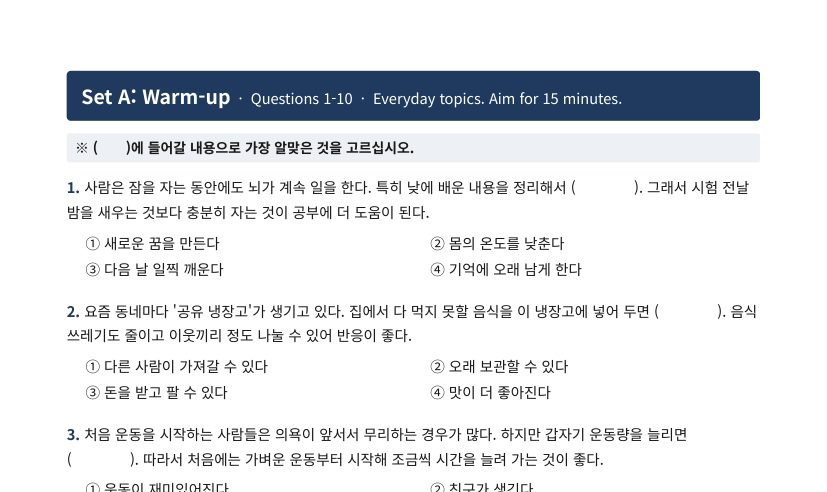
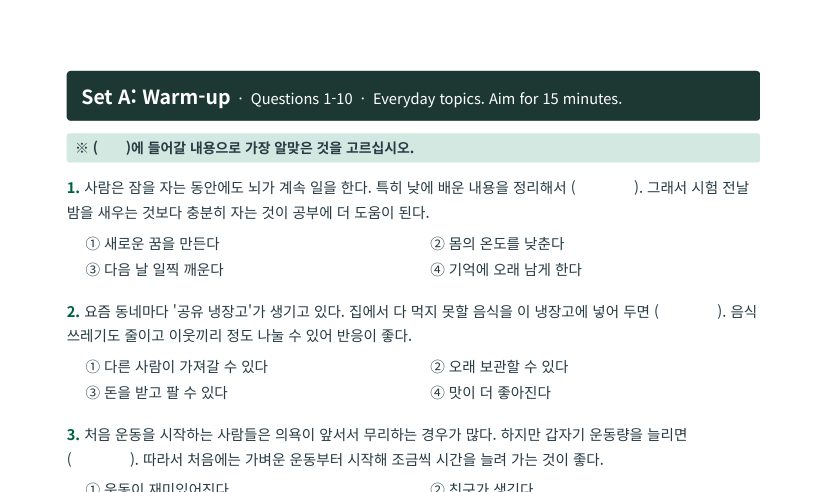
Design: green x warm cream theme (colors, serif titles, pill buttons, cards, answer boxes)

diff --git a/assets/css/main.scss b/assets/css/main.scss
@@ -1,10 +1,281 @@
 ---
-# 테마 스타일 위에 한글 폰트 설정을 덧씌웁니다.
+# 테마 스타일 위에 사이트 디자인을 덧씌웁니다.
+# 디자인 기준: 수업 슬라이드 디자인 "그린 × 웜 크림"
+# https://claude.ai/artifact/XoGgt9drxZkpvvhGEFBLdw
 ---
 
 @charset "utf-8";
 
+/* ---------- 디자인 토큰 ---------- */
+$tb-canvas: #fbefda;        // 페이지 바탕 (순백 대신)
+$tb-surface: #ffffff;       // 카드 표면 전용
+$tb-green-title: #006241;   // 제목
+$tb-green-accent: #00754a;  // 버튼, 태그, 링크, 핵심어
+$tb-green-house: #1e3932;   // 다크 밴드 (홈 상단, 푸터)
+$tb-green-uplift: #2b5148;  // 다크 위 카드, 보조 패널
+$tb-green-light: #d4e9e2;   // 정답 박스, 표 머리행
+$tb-gold: #cba258;          // 레벨 배지 전용, 다크 바탕에서만
+$tb-gold-lightest: #faf6ee; // 인용 상자
+$tb-ink: #2a3d45;           // 본문 (순수 검정 금지)
+$tb-ink-muted: #6b6b6b;     // 라벨, 캡션
+$tb-hairline: #e7e7e7;      // 표 행 구분선
+$tb-radius-card: 15px;
+$tb-radius-pill: 999px;
+$tb-shadow-card: 0 1px 3px rgba(0, 0, 0, 0.14);
+
+/* ---------- 테마 변수 덮어쓰기 (import 전에) ---------- */
 $sans-serif: "Noto Sans KR", -apple-system, BlinkMacSystemFont, "Segoe UI", Roboto, "Helvetica Neue", Arial, sans-serif;
+$serif: "Noto Serif KR", Georgia, serif;
+$background-color: $tb-canvas;
+$text-color: $tb-ink;
+$muted-text-color: $tb-ink-muted;
+$primary-color: $tb-green-accent;
+$border-color: $tb-hairline;
+$link-color: $tb-green-accent;
+$link-color-hover: $tb-green-title;
+$link-color-visited: $tb-green-accent;
+$masthead-link-color: $tb-ink;
+$masthead-link-color-hover: $tb-green-title;
+$navicon-link-color-hover: $tb-green-title;
+$footer-background-color: $tb-green-house;
+$code-background-color: $tb-gold-lightest;
+$border-radius: $tb-radius-card;
 
 @import "minimal-mistakes/skins/{{ site.minimal_mistakes_skin | default: 'default' }}";
 @import "minimal-mistakes";
+
+/* ---------- 타이포그래피 ---------- */
+body {
+  letter-spacing: -0.01em;
+}
+
+h1, h2, h3, h4,
+.page__title,
+.archive__item-title {
+  color: $tb-green-title;
+}
+
+/* 대제목만 세리프 (본문에는 섞지 않음) */
+.page__title,
+.page__hero--overlay .page__title {
+  font-family: $serif;
+  font-weight: 700;
+}
+
+.page__content h2 {
+  border-bottom: 0;   // 제목 밑줄 액센트 쓰지 않음
+  padding-bottom: 0;
+}
+
+/* ---------- 상단 메뉴 ---------- */
+.masthead {
+  background-color: $tb-canvas;
+  border-bottom: 0;
+}
+
+.greedy-nav {
+  background: $tb-canvas;
+}
+
+.greedy-nav .visible-links a::before {
+  background: $tb-green-accent;   // 메뉴 hover 표시
+}
+
+/* ---------- 홈 상단 다크 밴드 ---------- */
+.page__hero--overlay {
+  background-color: $tb-green-house;
+}
+
+.page__hero--overlay .page__lead {
+  color: rgba(255, 255, 255, 0.85);
+}
+
+/* ---------- 버튼과 태그: 알약형 ---------- */
+.btn {
+  border-radius: $tb-radius-pill;
+  padding: 0.6em 1.4em;
+  font-weight: 700;
+}
+
+.btn--primary {
+  background-color: $tb-green-accent;
+  color: #fff;
+
+  &:hover {
+    background-color: $tb-green-title;
+  }
+}
+
+.btn--inverse {
+  background-color: $tb-surface;
+  color: $tb-green-title;
+  border: 1px solid $tb-green-accent;
+
+  &:hover {
+    background-color: $tb-green-light;
+    color: $tb-green-title;
+  }
+}
+
+.page__taxonomy-item {
+  border-radius: $tb-radius-pill;
+  border-color: $tb-green-accent;
+  color: $tb-green-accent;
+  background-color: $tb-surface;
+}
+
+/* ---------- 카드 ---------- */
+.feature__item .archive__item,
+.grid__item .archive__item,
+.sidebar .author__content {
+  background-color: $tb-surface;
+  border-radius: $tb-radius-card;
+  box-shadow: $tb-shadow-card;
+}
+
+.feature__item .archive__item {
+  padding: 1.6em 1.6em 1.2em;
+}
+
+.grid__item .archive__item {
+  padding: 0 0 1em;
+  overflow: hidden;
+
+  .archive__item-title,
+  .archive__item-excerpt,
+  .page__meta {
+    padding: 0 1em;
+  }
+}
+
+.archive__item-teaser {
+  border-radius: 0;
+}
+
+/* 글 목차 상자 */
+.toc {
+  background-color: $tb-surface;
+  border-radius: $tb-radius-card;
+  box-shadow: $tb-shadow-card;
+  border: 0;
+
+  .nav__title {
+    background: $tb-green-house;
+  }
+}
+
+/* ---------- 상품 추천 박스 (_includes/product-box.html) ---------- */
+.product-box {
+  background-color: $tb-surface;
+  border-radius: $tb-radius-card;
+  box-shadow: $tb-shadow-card;
+  padding: 1.4em 1.6em;
+  margin: 2em 0;
+
+  .product-box__kicker {
+    font-size: 0.75em;
+    font-weight: 700;
+    letter-spacing: 0.15em;
+    text-transform: uppercase;
+    color: $tb-ink-muted;
+    margin: 0 0 0.4em;
+  }
+
+  .product-box__title {
+    font-weight: 700;
+    color: $tb-green-title;
+    margin: 0 0 0.3em;
+  }
+
+  .product-box__desc {
+    margin: 0 0 1em;
+  }
+
+  .btn {
+    margin: 0;
+  }
+}
+
+/* ---------- 정답·해설 박스 (<details>) ---------- */
+.page__content details {
+  background-color: $tb-green-light;
+  border-radius: $tb-radius-card;
+  padding: 0.9em 1.3em;
+  margin: 1.5em 0;
+
+  summary {
+    cursor: pointer;
+    color: $tb-green-title;
+    font-weight: 700;
+  }
+
+  &[open] summary {
+    margin-bottom: 0.6em;
+  }
+}
+
+/* ---------- 지시문 인용 상자 ---------- */
+.page__content blockquote {
+  background-color: $tb-gold-lightest;
+  border-left: 0;
+  border-radius: $tb-radius-card;
+  padding: 0.8em 1.3em;
+  margin-left: 0;
+  font-style: normal;
+  color: $tb-ink;
+}
+
+/* ---------- 표 ---------- */
+.page__content table {
+  background-color: $tb-surface;
+  border-radius: $tb-radius-card;
+  box-shadow: $tb-shadow-card;
+  border: 0;
+  overflow: hidden;
+}
+
+.page__content thead,
+.page__content th {
+  background-color: $tb-green-light;
+  color: $tb-green-title;
+  border-bottom: 0;
+}
+
+.page__content td {
+  border-bottom: 1px solid $tb-hairline;
+}
+
+/* ---------- 알림 상자 ---------- */
+.notice--primary {
+  background-color: $tb-green-light;
+  border-radius: $tb-radius-card;
+  box-shadow: none;
+}
+
+/* ---------- 푸터: 다크 밴드 ---------- */
+.page__footer {
+  background-color: $tb-green-house;
+  color: rgba(255, 255, 255, 0.7);
+
+  a,
+  a:visited {
+    color: #fff;
+  }
+
+  .page__footer-follow .social-icons .fas,
+  .page__footer-follow .social-icons .fab {
+    color: #fff;
+  }
+}
+
+/* ---------- 레벨 배지: 금색, 다크 바탕 위에서만 ---------- */
+.level-badge {
+  display: inline-block;
+  border: 1px solid $tb-gold;
+  color: $tb-gold;
+  border-radius: $tb-radius-pill;
+  padding: 0.1em 0.8em;
+  font-size: 0.8em;
+  font-weight: 700;
+  letter-spacing: 0.05em;
+}

diff --git a/_includes/product-box.html b/_includes/product-box.html
@@ -2,9 +2,11 @@
   레슨 글 하단 상품 추천 박스.
   사용법: include product-box.html title="상품명" desc="한 줄 설명" url="/shop/상품주소/"
   (실제로 쓸 때는 앞뒤를 중괄호+퍼센트 기호로 감쌉니다)
+  kicker="..."를 주면 위쪽 작은 라벨을 바꿀 수 있습니다. 기본값: Practice more
 {% endcomment %}
-<div class="notice--primary">
-  <p><strong>{{ include.title }}</strong></p>
-  <p>{{ include.desc }}</p>
+<div class="product-box">
+  <p class="product-box__kicker">{{ include.kicker | default: "Practice more" }}</p>
+  <p class="product-box__title">{{ include.title }}</p>
+  <p class="product-box__desc">{{ include.desc }}</p>
   <p><a href="{{ include.url | relative_url }}" class="btn btn--primary">See details</a></p>
 </div>

diff --git a/_includes/head/custom.html b/_includes/head/custom.html
@@ -1,4 +1,4 @@
-<!-- 한글이 외국 기기에서도 깨지지 않도록 Noto Sans KR 웹폰트 사용 -->
+<!-- 한글이 외국 기기에서도 깨지지 않도록 웹폰트 사용: 본문 Noto Sans KR, 대제목 Noto Serif KR (둘 다 OFL, 상업적 이용 가능) -->
 <link rel="preconnect" href="https://fonts.googleapis.com">
 <link rel="preconnect" href="https://fonts.gstatic.com" crossorigin>
-<link href="https://fonts.googleapis.com/css2?family=Noto+Sans+KR:wght@400;700&display=swap" rel="stylesheet">
+<link href="https://fonts.googleapis.com/css2?family=Noto+Sans+KR:wght@400;700&family=Noto+Serif+KR:wght@700&display=swap" rel="stylesheet">

diff --git a/_pages/home.md b/_pages/home.md
@@ -3,7 +3,7 @@ layout: splash
 permalink: /
 title: "TOPIK Practice Bank"
 header:
-  overlay_color: "#1f3a5f"
+  overlay_color: "#1e3932"
 excerpt: "Original TOPIK I & II practice questions with clear English explanations. Learn every question type, then test yourself."
 intro:
   - excerpt: "Pick your level and start with a free mini test."
